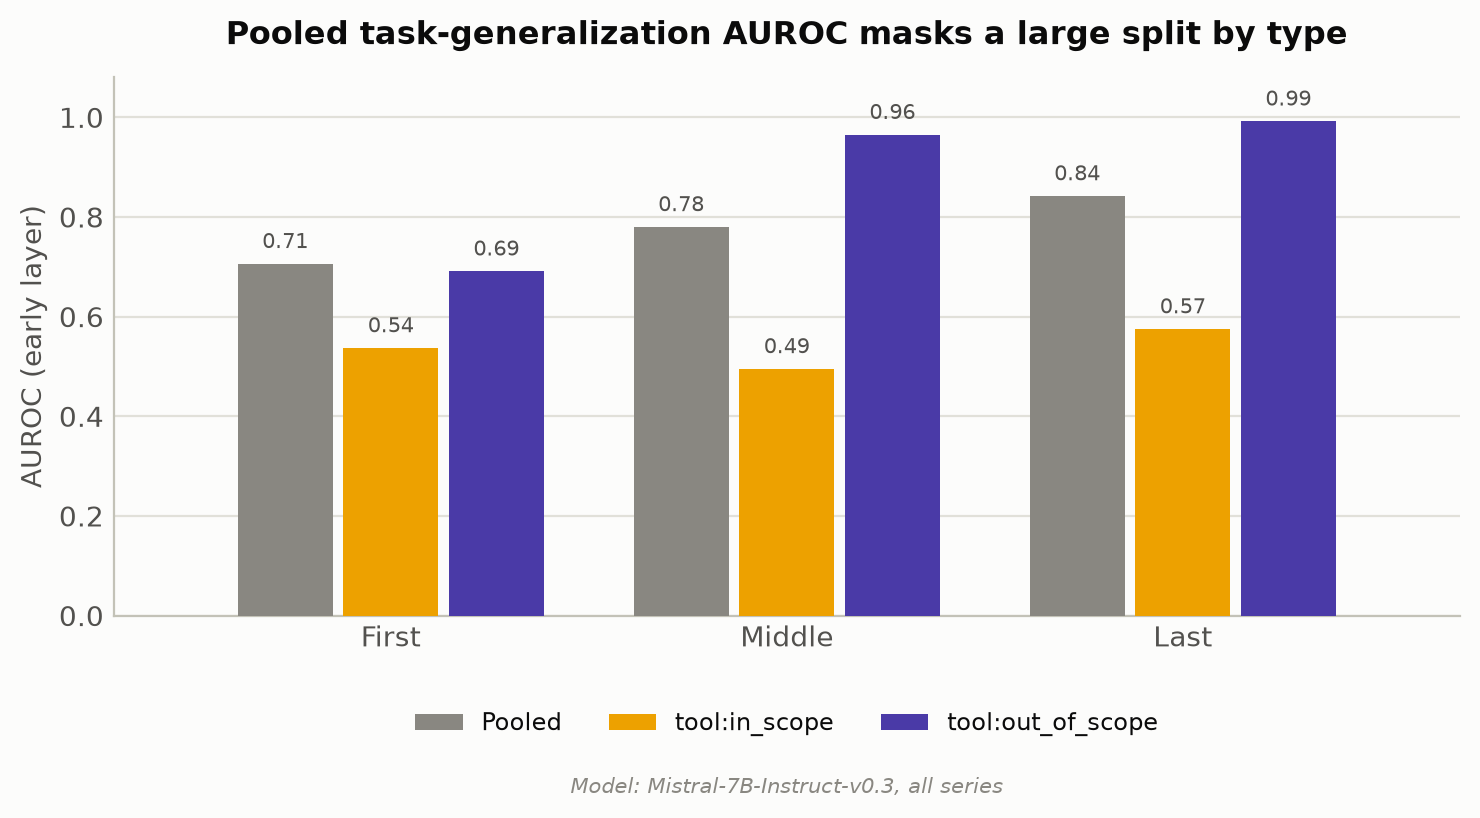
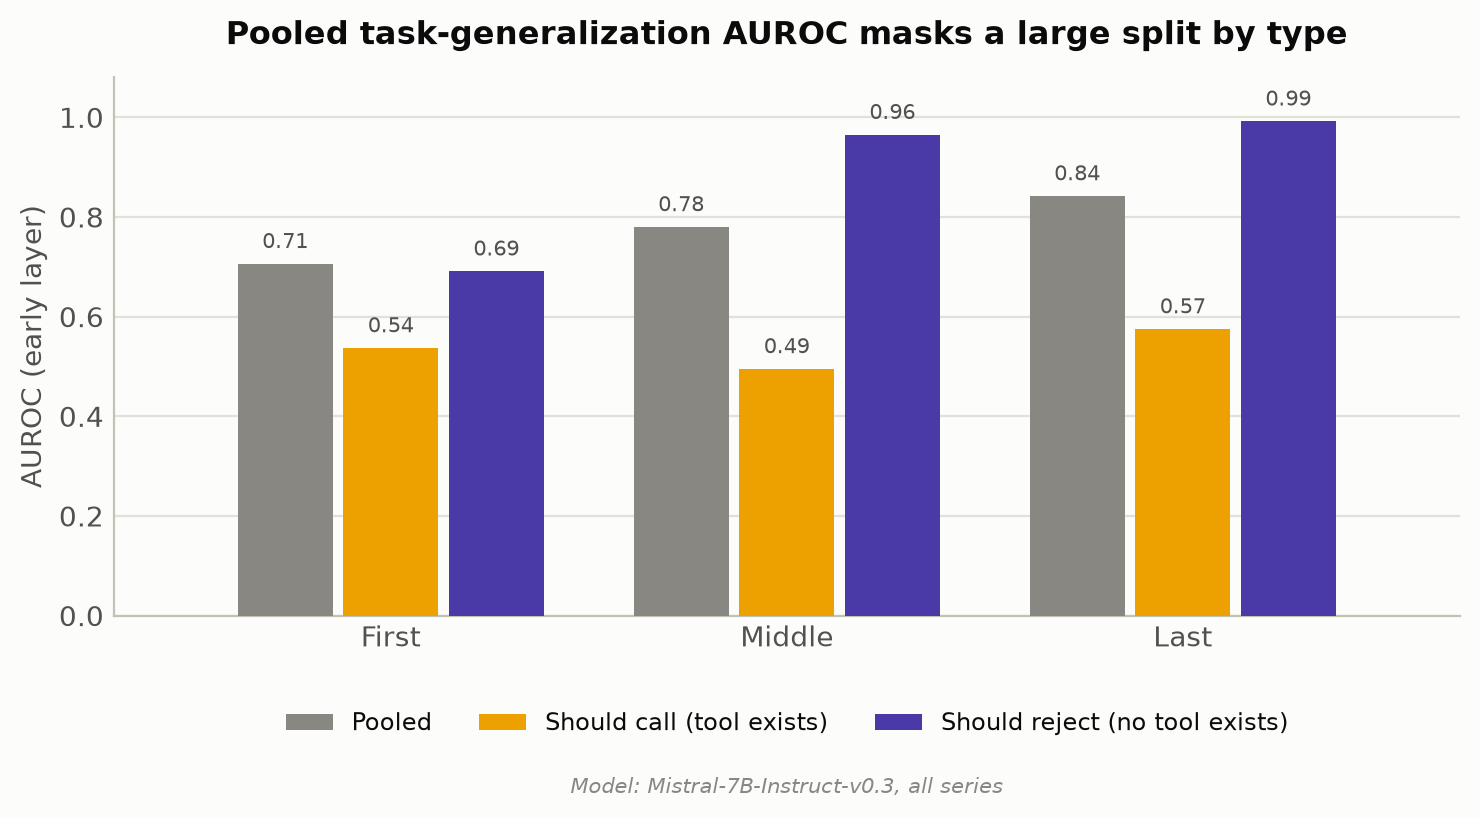
Replace raw dataset field names with policy-language chart labels
fig5 and fig6 legends said "tool:in_scope"/"tool:out_of_scope", forcing
the reader to mentally re-map those to the actual policy actions every
time. Relabeled to "Should call (tool exists)"/"Should reject (no tool
exists)" in make_figures.py's shared SERIES_TYPE and regenerated both
charts; updated the surrounding prose and alt-text in the write-up to
match, with the tool-exists/no-tool-exists gloss stated once at each
figure's first mention rather than repeated on every sentence.

Changed region(s): [[0.1865, 0.8557, 0.5595, 0.9169], [0.6216, 0.8557, 0.8703, 0.9169]]

diff --git a/POLICY_FOLLOWING_RESULTS.md b/POLICY_FOLLOWING_RESULTS.md
@@ -376,25 +376,26 @@ cleanly at other layers, I'd call this suggestive, not conclusive.
 
 ![AUROC by token position, task generalization and instruction-type generalization side by side. Paper and text-only stay flat or dip at the middle token; tool-calling climbs steadily from first to last token in both panels.](assets/fig2_token_breakdown.png)
 
-One layer deeper: task generalization above pools `tool:in_scope` and
-`tool:out_of_scope` into one training set, same as the paper's reference
-implementation pools all 5 of its instruction types. Pooling is the
-right call for comparing against
-the paper, but it hides how unevenly separable the two actually are on
-their own. Breaking the same experiment out by type tells a different
-story:
+One layer deeper: task generalization above pools the should-call type
+(a tool exists) and the should-reject type (no tool exists) into one
+training set, same as the paper's reference implementation pools all 5
+of its instruction types. Pooling is the right call for comparing
+against the paper, but it hides how unevenly separable the two
+actually are on their own. Breaking the same experiment out by type
+tells a different story:
 
-![Task-generalization AUROC, pooled versus split by instruction type, at the early layer across all three token positions. tool:out_of_scope is almost perfectly separable on its own; tool:in_scope sits at or near chance throughout, and the pooled bar sits above both.](assets/fig5_task_gen_masking.png)
+![Task-generalization AUROC, pooled versus split by instruction type, at the early layer across all three token positions. The should-reject type (no tool exists) is almost perfectly separable on its own; the should-call type (a tool exists) sits at or near chance throughout, and the pooled bar sits above both.](assets/fig5_task_gen_masking.png)
 
-`tool:out_of_scope`, the 20%-positive minority, is the type a probe reads
-almost perfectly (up to 0.99 AUROC by the last token). `tool:in_scope`,
-the 68%-positive majority, is the weak one, sitting at chance for most of
-the grid. That's the opposite of what I expected going in: with roughly a
-third as many positive examples, I assumed `out_of_scope` would be the
-harder type to learn, not the easier one. It means the pooled numbers
-above, while the correct comparison to the paper's own pooled setup,
-overstate how separable `tool:in_scope` specifically is. Most of the
-pooled signal is `out_of_scope` carrying the average up.
+The should-reject type, the 20%-positive minority, is the type a probe
+reads almost perfectly (up to 0.99 AUROC by the last token). The
+should-call type, the 68%-positive majority, is the weak one, sitting
+at chance for most of the grid. That's the opposite of what I expected
+going in: with roughly a third as many positive examples, I assumed
+the should-reject type would be the harder type to learn, not the
+easier one. It means the pooled numbers above, while the correct
+comparison to the paper's own pooled setup, overstate how separable the
+should-call type specifically is. Most of the pooled signal is the
+should-reject type carrying the average up.
 
 ## Representation Engineering
 
@@ -520,19 +521,20 @@ directly:
 
 The pooled tool-calling numbers above combine both directions of the
 policy: call the tool, and reject. Linear Probes already showed pooling
-can hide a real split between the two (`tool:out_of_scope` was far more
-separable than `tool:in_scope`), so the same check is worth running
-here: does RE's null result hold up when the two directions are looked
-at separately, or is a real per-type effect getting averaged away?
+can hide a real split between the two (the should-reject type was far
+more separable than the should-call type), so the same check is worth
+running here: does RE's null result hold up when the two directions
+are looked at separately, or is a real per-type effect getting averaged
+away?
 
-![Success rate by condition, pooled versus split by tool:in_scope and tool:out_of_scope. All three bars for tool:in_scope sit close together around 0.44 to 0.46, and all three for tool:out_of_scope sit close together around 0.21, with instruction-follow never the highest in either group.](assets/fig6_re_type_masking.png)
+![Success rate by condition, pooled versus split by should-call and should-reject type. All three bars for the should-call type sit close together around 0.44 to 0.46, and all three for the should-reject type sit close together around 0.21, with instruction-follow never the highest in either group.](assets/fig6_re_type_masking.png)
 
-It holds up. `tool:in_scope` goes 0.463 to 0.463 to 0.438 across
-Original, Random, and Instruction-follow; `tool:out_of_scope` goes 0.213
-to 0.217 to 0.212. Instruction-follow isn't the best condition for
-either direction of the policy individually, so the pooled null result
-isn't hiding a win on the call-the-tool side or the reject side. Whatever
-this lever is doing, it isn't doing it selectively.
+It holds up. The should-call type goes 0.463 to 0.463 to 0.438 across
+Original, Random, and Instruction-follow; the should-reject type goes
+0.213 to 0.217 to 0.212. Instruction-follow isn't the best condition
+for either direction of the policy individually, so the pooled null
+result isn't hiding a win on the call-the-tool side or the reject side.
+Whatever this lever is doing, it isn't doing it selectively.
 
 ## Conclusion
 
